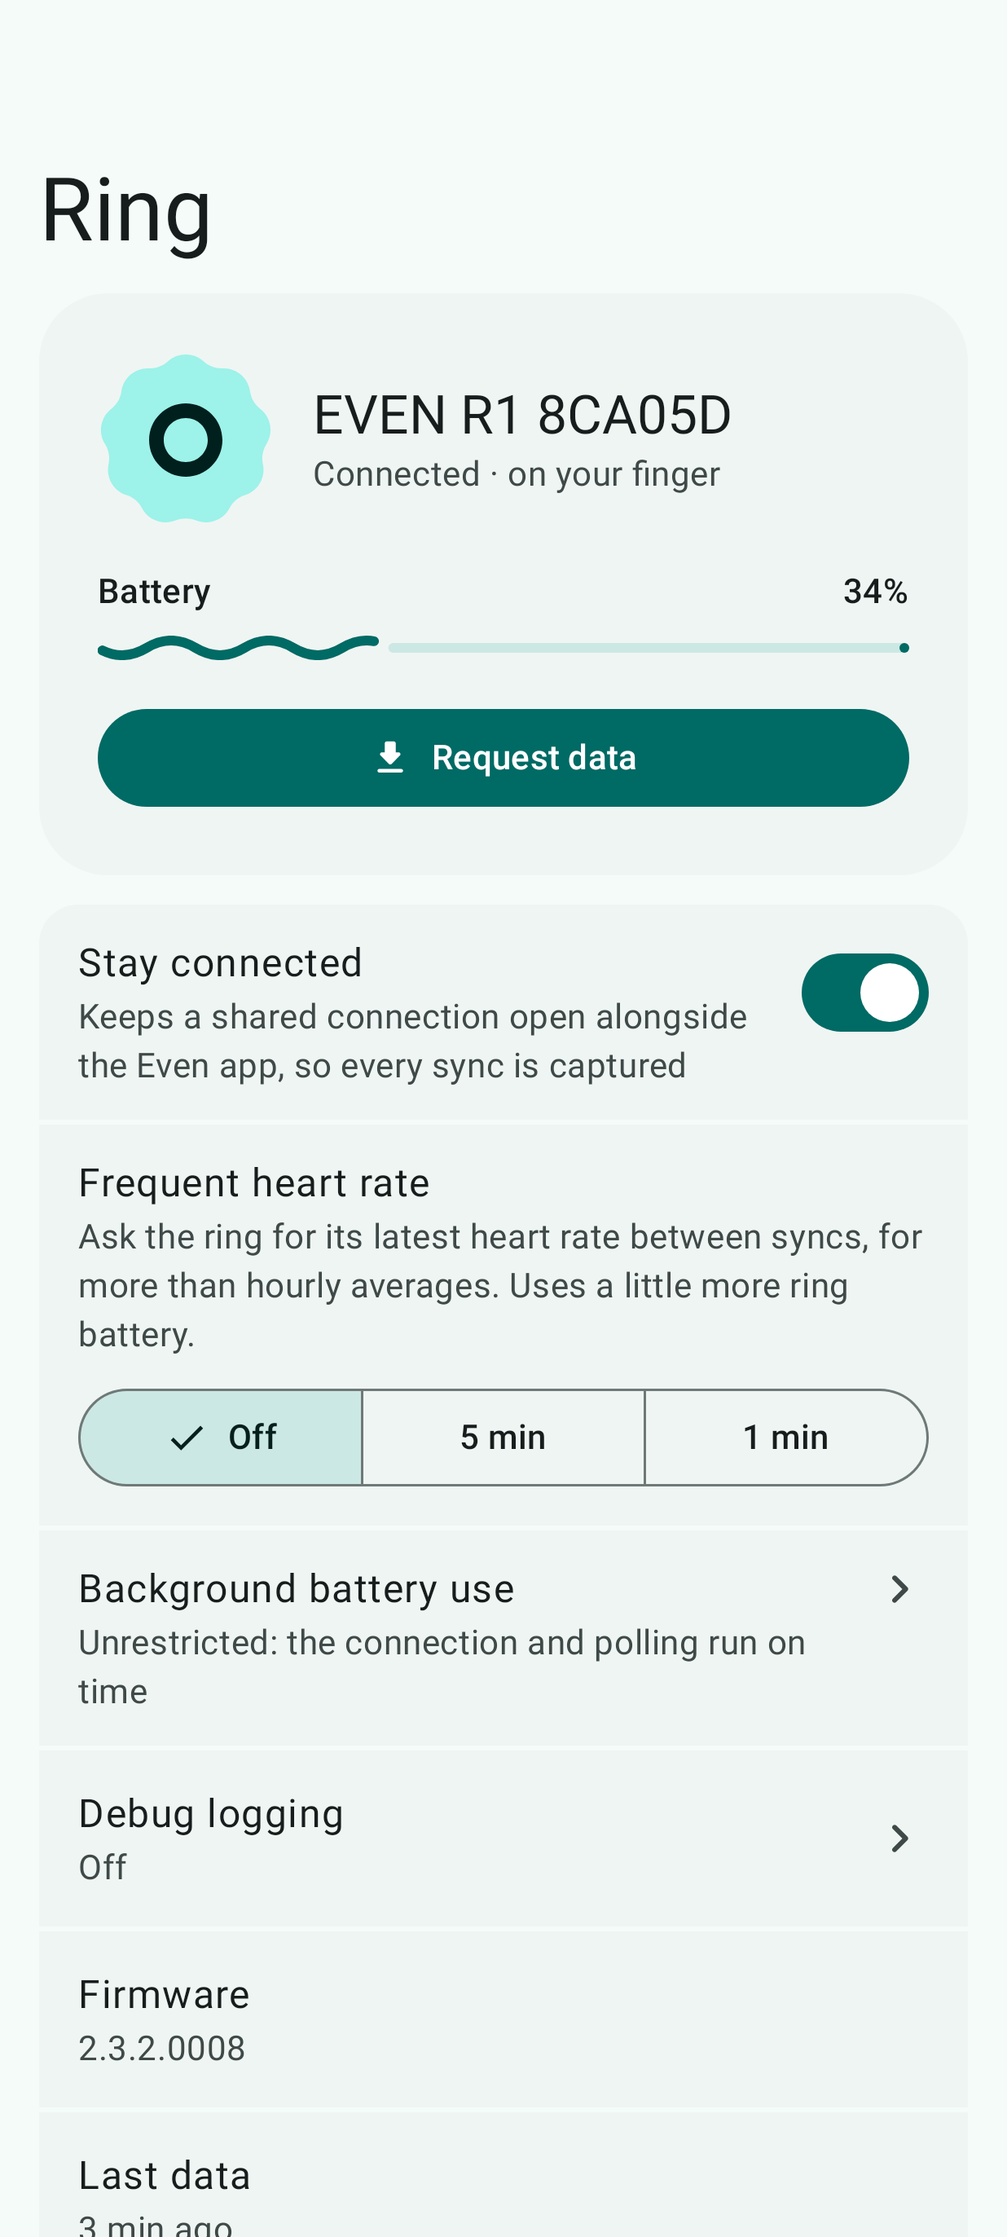
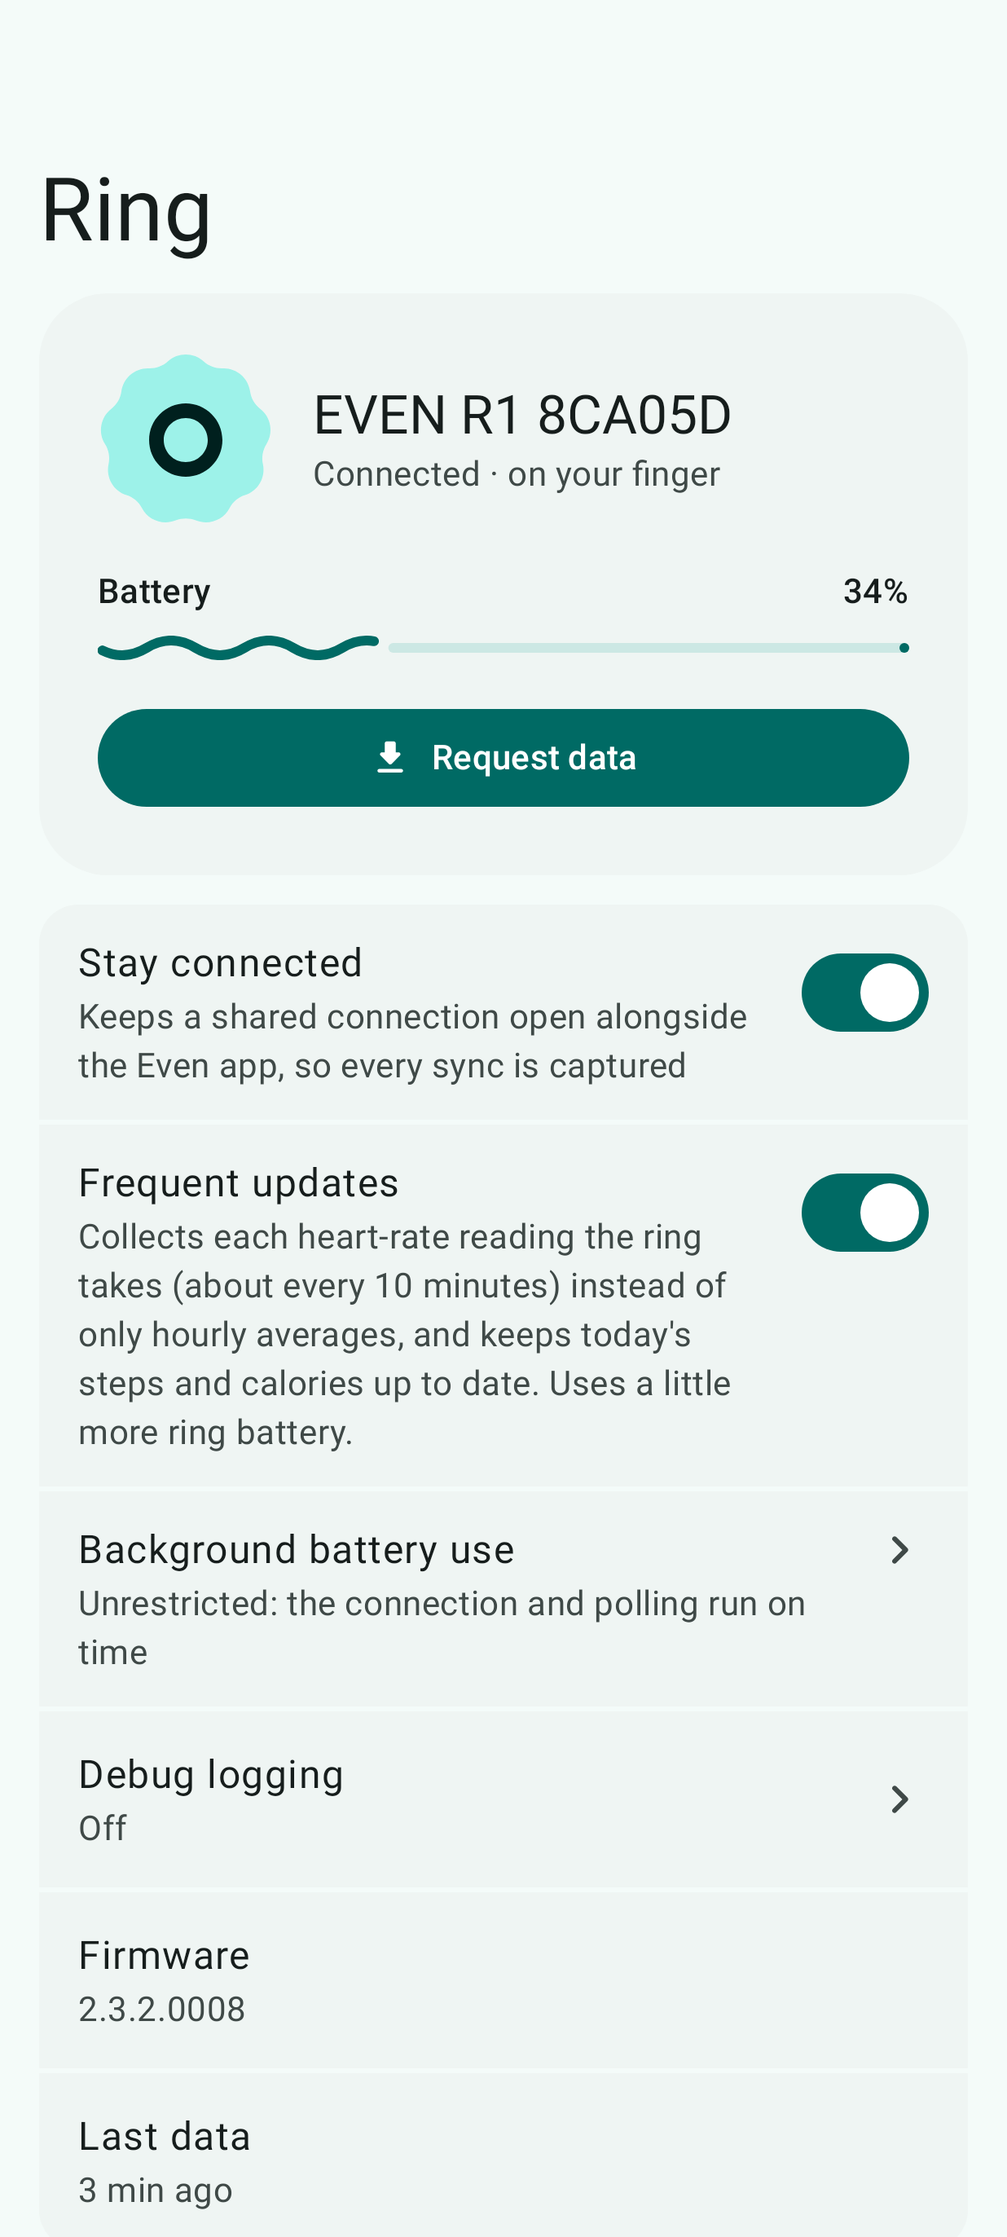
Frequent updates: follow the ring's heart-rate readings, and fetch activity too
A one-minute polling log showed the ring takes a heart-rate reading every
585-594 s; faster requests only returned the same reading. The 1/5-minute
setting becomes an on/off "Frequent updates" that schedules each request just
after the next reading is due (from the reading time the ring reports), backs
off when no new reading appears, and asks for activity at the same time.
Version 0.17.0.

Claude-Session: https://claude.ai/code/session_01MuCkd15GX21PUvAAYG1tcR

diff --git a/android/app/src/main/kotlin/dev/oddhealth/app/ring/RingService.kt b/android/app/src/main/kotlin/dev/oddhealth/app/ring/RingService.kt
@@ -32,6 +32,7 @@ import dev.oddhealth.core.ingest.RingIngest
 import dev.oddhealth.r1.DeviceInfo
 import dev.oddhealth.r1.DeviceStatus
 import dev.oddhealth.r1.R1
+import dev.oddhealth.r1.Vitals
 import dev.oddhealth.r1.Reassembler
 import dev.oddhealth.r1.WearStatus
 import dev.oddhealth.r1.decode
@@ -111,7 +112,9 @@ class RingService : Service() {
     private var ready = false
     /** pairAuth sent on this connection. */
     private var sessionOpen = false
-    private var lastHrPoll = 0L
+    private var lastPoll = 0L
+    /** When the ring took its latest heart-rate reading (epoch ms), from its replies. */
+    private var lastHrReading: Long? = null
     private var discovering = false
     private var dataSubscribed: Boolean? = null
     private var lastHealthData = 0L
@@ -167,8 +170,9 @@ class RingService : Service() {
     }
 
     private fun tickInterval(): Long {
-        val poll = graph.settings.hrPollMinutes.value
-        return if (poll > 0) minOf(poll * 60_000L, QUIET_CHECK_MS) else QUIET_CHECK_MS
+        if (!graph.settings.frequentUpdates.value) return QUIET_CHECK_MS
+        val now = System.currentTimeMillis()
+        return (ReadingSchedule.nextPoll(lastHrReading, lastPoll, now) - now).coerceIn(15_000L, QUIET_CHECK_MS)
     }
 
     private fun scheduleTick() {
@@ -177,20 +181,24 @@ class RingService : Service() {
         )
     }
 
-    /** Ask the ring for heart rate if polling is due, or for everything if it has been quiet too long. */
+    /**
+     * Ask for everything if the ring has been quiet too long; otherwise, with
+     * frequent updates on, ask for heart rate and activity when the ring's next
+     * heart-rate reading should be ready.
+     */
     private fun tick() {
         val now = System.currentTimeMillis()
         if (ready && now - lastHealthData > QUIET_LIMIT_MS) {
             graph.ring.event(getString(R.string.event_auto_request))
             requestData()
-            lastHrPoll = now
-        } else {
-            val minutes = graph.settings.hrPollMinutes.value
-            if (minutes > 0 && ready && now - lastHrPoll >= minutes * 60_000L - 30_000) {
-                lastHrPoll = now
-                openSession()
-                send("heartRate request", healthRequest(R1.HEALTH_HEART_RATE, nextSeq()))
-            }
+            lastPoll = now
+        } else if (ready && graph.settings.frequentUpdates.value &&
+            now >= ReadingSchedule.nextPoll(lastHrReading, lastPoll, now) - 5_000
+        ) {
+            lastPoll = now
+            openSession()
+            send("heartRate request", healthRequest(R1.HEALTH_HEART_RATE, nextSeq()))
+            send("activity request", healthRequest(R1.HEALTH_ACTIVITY, nextSeq()))
         }
         scheduleTick()
     }
@@ -348,6 +356,16 @@ class RingService : Service() {
             val decoded = decode(frame)
             val summary = decoded?.let(::describe)
             log("${frame.name} #${frame.seq}" + (summary?.let { " — $it" } ?: if (frame.data.isEmpty()) "" else " — ${frame.data.size} bytes"))
+            if (decoded is Vitals && decoded.cmd == R1.HEALTH_HEART_RATE) {
+                decoded.currentTs?.let { ts ->
+                    val reading = ts * 1000
+                    if (reading != lastHrReading) {
+                        lastHrReading = reading
+                        // Line the next request up with the ring's next reading.
+                        if (graph.settings.frequentUpdates.value) scheduleTick()
+                    }
+                }
+            }
             when (decoded) {
                 is DeviceStatus -> graph.ring.update { it.copy(batteryPercent = decoded.batteryPercent, charging = decoded.chargeState == 1) }
                 is DeviceInfo -> {
@@ -360,7 +378,10 @@ class RingService : Service() {
             if (decoded != null && frame.module == R1.MODULE_HEALTH && frame.status == R1.STATUS_PUSH) {
                 lastHealthData = System.currentTimeMillis()
                 graph.ring.dataReceived()
-                if (!(frame.cmd == R1.HEALTH_HEART_RATE && graph.settings.hrPollMinutes.value > 0)) summary?.let(graph.ring::event)
+                // Frequent updates would fill the activity list; show only other pushes then.
+                val polled = graph.settings.frequentUpdates.value &&
+                    (frame.cmd == R1.HEALTH_HEART_RATE || frame.cmd == R1.HEALTH_ACTIVITY)
+                if (!polled) summary?.let(graph.ring::event)
                 val records = RingIngest.records(decoded, System.currentTimeMillis())
                 if (records.isNotEmpty()) {
                     graph.scope.launch {

diff --git a/android/app/src/main/kotlin/dev/oddhealth/app/ui/ring/RingScreen.kt b/android/app/src/main/kotlin/dev/oddhealth/app/ui/ring/RingScreen.kt
@@ -32,9 +32,6 @@ import androidx.compose.material3.ListItemDefaults
 import androidx.compose.material3.MaterialShapes
 import androidx.compose.material3.MaterialTheme
 import androidx.compose.material3.Scaffold
-import androidx.compose.material3.SegmentedButton
-import androidx.compose.material3.SegmentedButtonDefaults
-import androidx.compose.material3.SingleChoiceSegmentedButtonRow
 import androidx.compose.material3.Surface
 import androidx.compose.material3.Switch
 import androidx.compose.material3.Text
@@ -63,7 +60,7 @@ fun RingScreen(
     now: Instant,
     onRequestData: () -> Unit,
     onListeningChange: (Boolean) -> Unit,
-    onHrPollChange: (Int) -> Unit,
+    onFrequentUpdatesChange: (Boolean) -> Unit,
     onDebug: () -> Unit,
     onBattery: () -> Unit = {},
     modifier: Modifier = Modifier,
@@ -147,22 +144,9 @@ fun RingScreen(
                             },
                             {
                                 ListItem(
-                                    headlineContent = { Text(stringResource(R.string.hr_poll_title)) },
-                                    supportingContent = {
-                                        Column(verticalArrangement = Arrangement.spacedBy(Space.s)) {
-                                            Text(stringResource(R.string.hr_poll_body))
-                                            val options = listOf(0 to R.string.off, 5 to R.string.every_5_min, 1 to R.string.every_min)
-                                            SingleChoiceSegmentedButtonRow(Modifier.fillMaxWidth()) {
-                                                options.forEachIndexed { i, (minutes, label) ->
-                                                    SegmentedButton(
-                                                        selected = state.hrPollMinutes == minutes,
-                                                        onClick = { onHrPollChange(minutes) },
-                                                        shape = SegmentedButtonDefaults.itemShape(i, options.size),
-                                                    ) { Text(stringResource(label)) }
-                                                }
-                                            }
-                                        }
-                                    },
+                                    headlineContent = { Text(stringResource(R.string.frequent_title)) },
+                                    supportingContent = { Text(stringResource(R.string.frequent_body)) },
+                                    trailingContent = { Switch(checked = state.frequentUpdates, onCheckedChange = onFrequentUpdatesChange) },
                                     colors = ListItemDefaults.colors(containerColor = Color.Transparent),
                                 )
                             },

diff --git a/android/app/src/test/kotlin/dev/oddhealth/app/ReadingScheduleTest.kt b/android/app/src/test/kotlin/dev/oddhealth/app/ReadingScheduleTest.kt
@@ -1,0 +1,45 @@
+package dev.oddhealth.app
+
+import dev.oddhealth.app.ring.ReadingSchedule
+import org.junit.Assert.assertEquals
+import org.junit.Test
+
+class ReadingScheduleTest {
+    private val period = ReadingSchedule.PERIOD_MS
+    private val margin = ReadingSchedule.MARGIN_MS
+
+    @Test
+    fun asksNowWhenTheLatestReadingIsUnknown() {
+        assertEquals(1_000L, ReadingSchedule.nextPoll(null, 0, 1_000))
+    }
+
+    @Test
+    fun asksJustAfterTheNextReadingIsDue() {
+        // Reading at t=0, now 2 minutes later: next reading due at 9:45, ask at 10:00.
+        assertEquals(period + margin, ReadingSchedule.nextPoll(0, 0, 120_000))
+    }
+
+    @Test
+    fun asksImmediatelyIfTheDueTimeWasMissed() {
+        // Phone asleep: now is well past the due time and we haven't asked since.
+        assertEquals(900_000L, ReadingSchedule.nextPoll(0, 300_000, 900_000))
+    }
+
+    @Test
+    fun backsOffWhenNoNewReadingArrives() {
+        // Asked at 10:00 and the reading is still the one from 0:00 (ring off the finger).
+        val askedAt = period + margin
+        assertEquals(askedAt + period, ReadingSchedule.nextPoll(0, askedAt, askedAt + 1_000))
+    }
+
+    @Test
+    fun matchesTheMeasuredCadence() {
+        // Readings seen at 08:10:37, 08:20:22, 08:30:16, 08:40:01, 08:49:46: 585-594 s apart.
+        val readings = listOf(0L, 585_000L, 1_179_000L, 1_764_000L, 2_349_000L)
+        for ((prev, next) in readings.zipWithNext()) {
+            val ask = ReadingSchedule.nextPoll(prev, 0, prev)
+            check(ask >= next) { "asked at $ask, before reading at $next" }
+            check(ask - next < 30_000) { "asked ${ask - next} ms after reading at $next" }
+        }
+    }
+}

diff --git a/android/app/src/main/kotlin/dev/oddhealth/app/Settings.kt b/android/app/src/main/kotlin/dev/oddhealth/app/Settings.kt
@@ -19,13 +19,16 @@ class Settings(context: Context) {
     private val _lastSync = MutableStateFlow(prefs.getLong(LAST_SYNC, 0).takeIf { it > 0 }?.let(Instant::ofEpochMilli))
     val lastSync: StateFlow<Instant?> = _lastSync.asStateFlow()
 
-    /** Minutes between our own heart-rate requests; 0 = off. */
-    private val _hrPollMinutes = MutableStateFlow(prefs.getInt(HR_POLL, 0))
-    val hrPollMinutes: StateFlow<Int> = _hrPollMinutes.asStateFlow()
+    /**
+     * Ask the ring for each new heart-rate reading and the latest activity.
+     * Defaults to on for anyone who had the old minute-based heart-rate polling on.
+     */
+    private val _frequentUpdates = MutableStateFlow(prefs.getBoolean(FREQUENT, prefs.getInt(HR_POLL_OLD, 0) > 0))
+    val frequentUpdates: StateFlow<Boolean> = _frequentUpdates.asStateFlow()
 
-    fun setHrPollMinutes(minutes: Int) {
-        prefs.edit().putInt(HR_POLL, minutes).apply()
-        _hrPollMinutes.value = minutes
+    fun setFrequentUpdates(on: Boolean) {
+        prefs.edit().putBoolean(FREQUENT, on).apply()
+        _frequentUpdates.value = on
     }
 
     private val _noticeAccepted = MutableStateFlow(prefs.getBoolean(NOTICE, false))
@@ -81,7 +84,8 @@ class Settings(context: Context) {
         const val DEBUG_LOGGING = "debug_logging"
         const val LAST_SYNC = "last_sync"
         const val FIRMWARE = "firmware"
-        const val HR_POLL = "hr_poll_minutes"
+        const val HR_POLL_OLD = "hr_poll_minutes"
+        const val FREQUENT = "frequent_updates"
         const val NOTICE = "notice_accepted_v1"
         const val UPDATE_NOTIFY = "update_notifications"
         const val UPDATE_CHECK = "update_last_check"

diff --git a/android/app/src/main/kotlin/dev/oddhealth/app/ring/ReadingSchedule.kt b/android/app/src/main/kotlin/dev/oddhealth/app/ring/ReadingSchedule.kt
@@ -1,0 +1,29 @@
+package dev.oddhealth.app.ring
+
+/**
+ * When to ask the ring next with "Frequent updates" on.
+ *
+ * The ring takes a heart-rate reading every 9 min 45 s (measured on firmware
+ * 2.3.2.0008) and reports when the latest was taken. Asking just after the next
+ * one is due gets every reading with one request each; asking more often only
+ * returns the same reading again.
+ */
+object ReadingSchedule {
+    const val PERIOD_MS = 585_000L
+    /** Wait this long after a reading is due, so it has been taken. */
+    const val MARGIN_MS = 15_000L
+
+    /**
+     * Time (epoch ms) of the next request.
+     * [lastReadingMs]: when the latest reading was taken, or null if unknown.
+     * [lastPollMs]: when we last asked, or 0.
+     */
+    fun nextPoll(lastReadingMs: Long?, lastPollMs: Long, nowMs: Long): Long {
+        if (lastReadingMs == null) return nowMs
+        val expected = lastReadingMs + PERIOD_MS + MARGIN_MS
+        // Asked since the reading was due and nothing new (ring off the finger,
+        // or its timing shifted): try again one period after that request.
+        if (lastPollMs >= expected) return lastPollMs + PERIOD_MS
+        return maxOf(expected, nowMs)
+    }
+}

diff --git a/android/app/src/main/kotlin/dev/oddhealth/app/ui/AppViewModel.kt b/android/app/src/main/kotlin/dev/oddhealth/app/ui/AppViewModel.kt
@@ -143,7 +143,7 @@ class AppViewModel(app: Application) : AndroidViewModel(app) {
 
     val ring: StateFlow<RingScreenState?> = combine(
         combine(graph.ring.status, graph.ring.events) { s, e -> s to e },
-        graph.settings.stayConnected, graph.settings.debugLogging, graph.settings.hrPollMinutes, batteryUnrestricted,
+        graph.settings.stayConnected, graph.settings.debugLogging, graph.settings.frequentUpdates, batteryUnrestricted,
     ) { (status, events), stay, debug, poll, battery -> RingScreenState(status, stay, events, debug, poll, battery) }
         .stateIn(viewModelScope, SharingStarted.WhileSubscribed(5_000), null)
 
@@ -283,8 +283,8 @@ class AppViewModel(app: Application) : AndroidViewModel(app) {
         return BugReport.issueUrl(graph.settings.firmware)
     }
 
-    fun setHrPollMinutes(minutes: Int) {
-        graph.settings.setHrPollMinutes(minutes)
+    fun setFrequentUpdates(on: Boolean) {
+        graph.settings.setFrequentUpdates(on)
         RingService.settingsChanged(getApplication())
     }
 

diff --git a/android/app/src/main/kotlin/dev/oddhealth/app/ui/AppShell.kt b/android/app/src/main/kotlin/dev/oddhealth/app/ui/AppShell.kt
@@ -67,7 +67,7 @@ class AppActions(
     val requestData: () -> Unit = {},
     val setListening: (Boolean) -> Unit = {},
     val refresh: () -> Unit = {},
-    val setHrPoll: (Int) -> Unit = {},
+    val setFrequentUpdates: (Boolean) -> Unit = {},
     val battery: () -> Unit = {},
     val syncNow: () -> Unit = {},
     val permissions: () -> Unit = {},
@@ -138,7 +138,7 @@ fun AppShell(
                     }
                 }
                 entry<Dest.Ring> {
-                    ring?.let { RingScreen(it, now, actions.requestData, actions.setListening, actions.setHrPoll, onDebug = { backStack.add(Dest.Debug) }, onBattery = actions.battery,
+                    ring?.let { RingScreen(it, now, actions.requestData, actions.setListening, actions.setFrequentUpdates, onDebug = { backStack.add(Dest.Debug) }, onBattery = actions.battery,
                         refreshing = refreshing, onRefresh = actions.refresh) }
                 }
                 entry<Dest.Sync> {

diff --git a/android/app/src/main/kotlin/dev/oddhealth/app/MainActivity.kt b/android/app/src/main/kotlin/dev/oddhealth/app/MainActivity.kt
@@ -84,7 +84,7 @@ class MainActivity : ComponentActivity() {
                         requestData = vm::requestData,
                         setListening = vm::setStayConnected,
                         refresh = { vm.refresh() },
-                        setHrPoll = vm::setHrPollMinutes,
+                        setFrequentUpdates = vm::setFrequentUpdates,
                         battery = {
                             val unrestricted = vm.ring.value?.batteryUnrestricted == true
                             // Android's own prompt when optimised; the app's settings page otherwise (to change it back).

diff --git a/android/app/src/main/kotlin/dev/oddhealth/app/ui/sample/SampleData.kt b/android/app/src/main/kotlin/dev/oddhealth/app/ui/sample/SampleData.kt
@@ -112,7 +112,7 @@ object SampleData {
     )
 
     val ringScreen = RingScreenState(
-        ring = ring, listening = true, batteryUnrestricted = true,
+        ring = ring, listening = true, batteryUnrestricted = true, frequentUpdates = true,
         events = listOf(
             RingEvent(LocalTime.of(11, 39), "Heart rate · hours 10–11 · now 84 bpm"),
             RingEvent(LocalTime.of(11, 39), "Activity · 2 buckets · 47 kcal"),

diff --git a/android/app/src/main/kotlin/dev/oddhealth/app/ui/model/UiModels.kt b/android/app/src/main/kotlin/dev/oddhealth/app/ui/model/UiModels.kt
@@ -104,7 +104,7 @@ data class RingScreenState(
     val listening: Boolean,
     val events: List<RingEvent>,
     val debugLogging: Boolean = false,
-    val hrPollMinutes: Int = 0,
+    val frequentUpdates: Boolean = false,
     /** Exempt from battery optimisation; null while unknown. */
     val batteryUnrestricted: Boolean? = null,
 )

diff --git a/docs/user-guide.md b/docs/user-guide.md
@@ -68,9 +68,13 @@ Health Connect about 20 seconds after it arrives.
   use** shows whether Android lets the app run freely in the background; tap it
   to allow that if it says "Optimised". It also lets you:
   - turn **Stay connected** off, which stops the background connection;
-  - turn on **Frequent heart rate** (every 5 minutes or every minute) for more
-    than hourly heart-rate data. It uses a little more ring battery. How much
-    detail you get depends on how often the ring itself measures.
+  - turn on **Frequent updates**. The ring takes a heart-rate reading about
+    every 10 minutes (9 min 45 s); with this on, the app collects each one,
+    instead of only the hourly average, and asks for the latest steps and
+    calories at the same time, so today's activity is never more than about
+    10 minutes behind. It asks just after each reading is due, about six
+    times an hour, and uses a little more ring battery. While the phone is
+    asleep Android may delay a request by a few minutes; no readings are lost.
 - **Sync** shows Health Connect status, what is written as which type, and how
   much is stored.
 
@@ -114,7 +118,7 @@ can't be updated this way; uninstall it and install the release instead.
 | Data in Odd Health but not in another app | Check Health Connect settings → Data and access: is Odd Health listed for that type? If it is, the other app may not read that type, or may take a while to refresh. |
 | A type says "waiting to sync" | Grant that permission in **Sync → Permissions**. |
 | Skin temperature says "Not supported" | Your phone's Health Connect doesn't have that type yet; body temperature is still written. |
-| Even app sync seems slower | Turn off **Frequent heart rate**. Both apps share one connection. |
+| Even app sync seems slower | Turn off **Frequent updates**. Both apps share one connection. |
 | Polling or the 75-minute check is late overnight | **Ring → Background battery use** → allow it. Without that, Android delays the app's timers while the phone sleeps. |
 | The connection stops after a while (Samsung, Xiaomi, OnePlus, Huawei and others) | These phones add their own battery savers on top of Android's. Allow background use as above, then also exempt Odd Health in the phone's own settings: Samsung: Settings → Battery → Background usage limits → Never sleeping apps; Xiaomi: app info → Battery saver → No restrictions, and turn on Autostart. [dontkillmyapp.com](https://dontkillmyapp.com) lists the steps for each brand. |
 

diff --git a/CHANGELOG.md b/CHANGELOG.md
@@ -5,6 +5,15 @@ Versions follow `MAJOR.MINOR.PATCH`. Releases are tagged `vX.Y.Z`; see
 
 ## Unreleased
 
+## 0.17.0
+
+- "Frequent heart rate" (1 or 5 minutes) is replaced by **Frequent updates**
+  (on/off). The ring takes a heart-rate reading every 9 min 45 s, so the app now
+  asks just after each one is due: every reading is collected with about 6
+  requests an hour instead of 60. Each request also fetches activity, keeping
+  today's steps and calories within about 10 minutes. Anyone who had the old
+  setting on gets the new one on.
+
 ## 0.16.0
 
 - Ring timers (frequent heart rate, the 75-minute fallback request) use alarms
